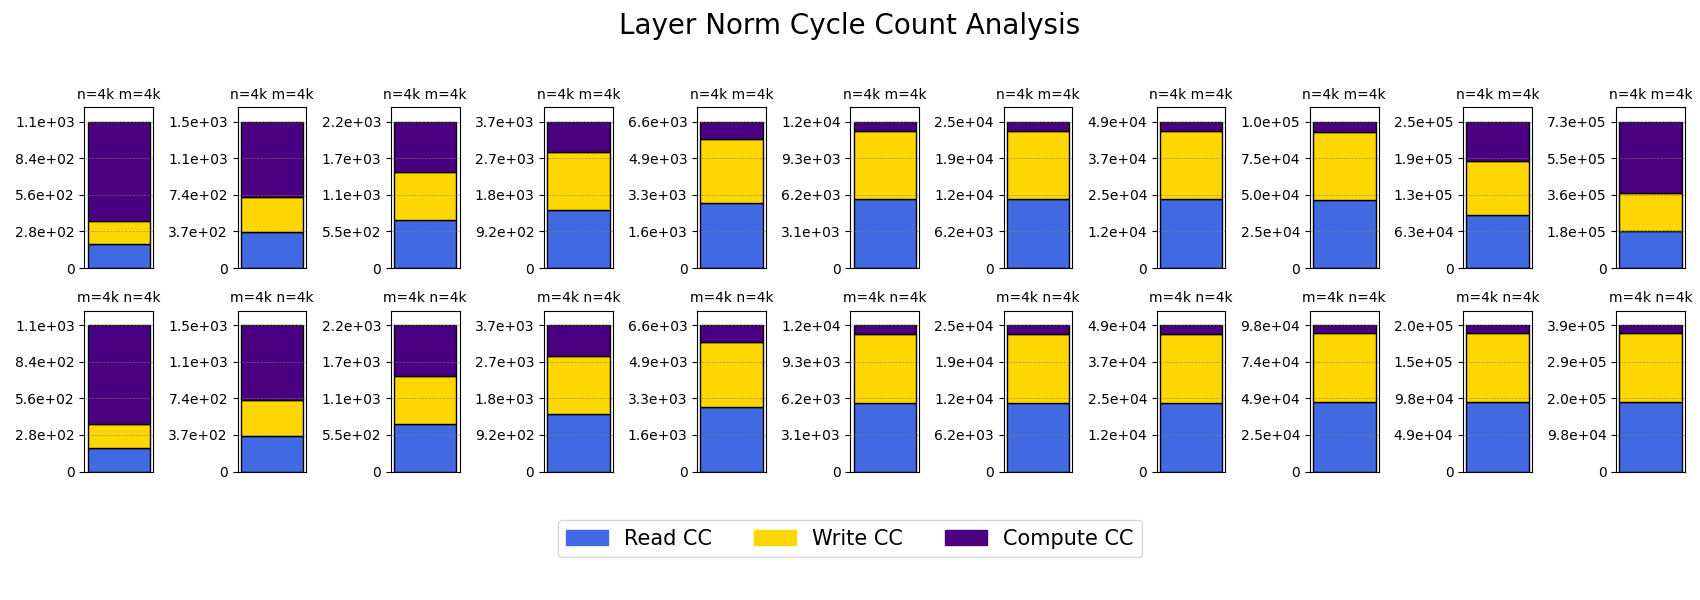
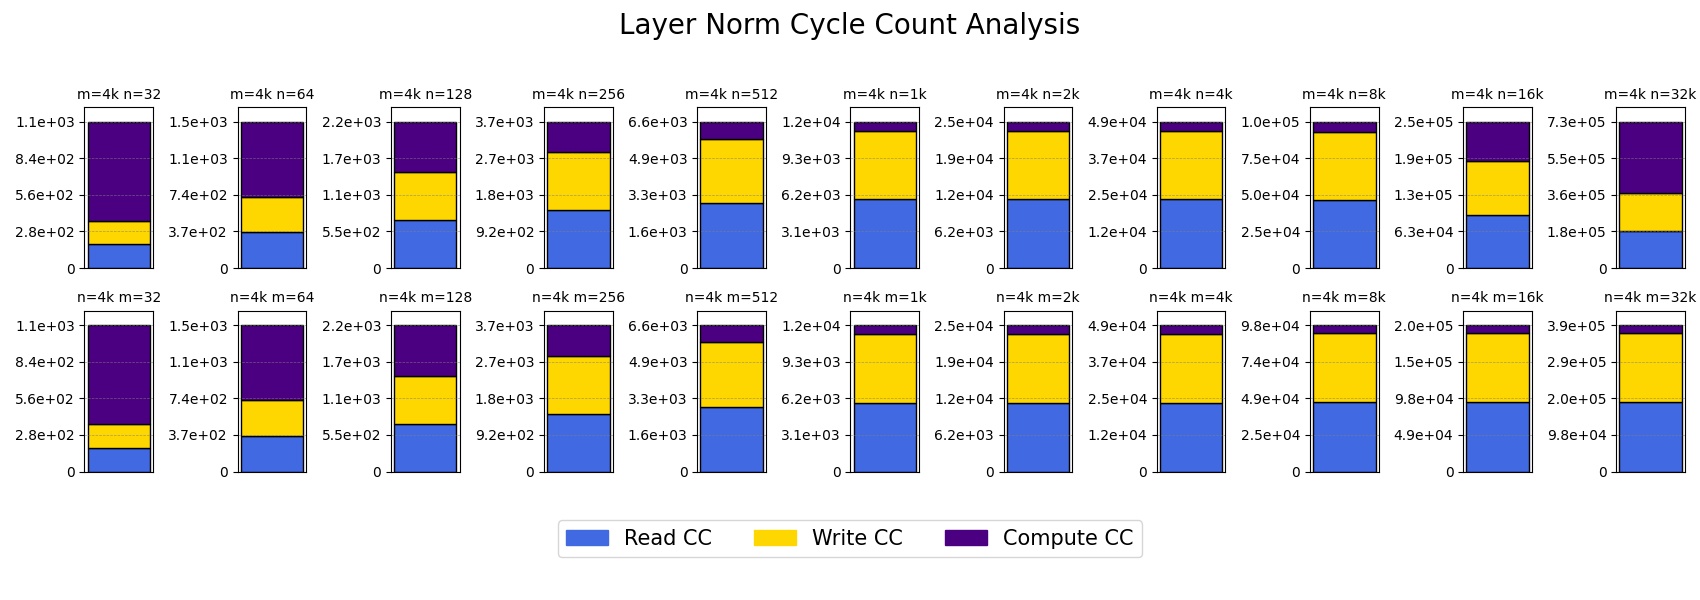
Updated image typos

diff --git a/ae/figure5/de/results/analyze_layernorm_cycle_count.py b/ae/figure5/de/results/analyze_layernorm_cycle_count.py
@@ -62,8 +62,8 @@ fig.suptitle('Layer Norm Cycle Count Analysis', fontsize=20)
 print(xaxis_labels_n)
 
 for i in range(11):
-    plot_single_stacked_bar(axes[0, i], i, f'n=4k {xaxis_labels_m[i]}')
-    plot_single_stacked_bar(axes[1, i], i + 11, f'm=4k {xaxis_labels_n[i + 11]}')
+    plot_single_stacked_bar(axes[0, i], i, f'm=4k {xaxis_labels_n[i]}')
+    plot_single_stacked_bar(axes[1, i], i + 11, f'n=4k {xaxis_labels_m[i + 11]}')
 
 labels = ['Read CC', 'Write CC', 'Compute CC']
 colors = ['#4169E1', '#FFD700', '#4B0082']
